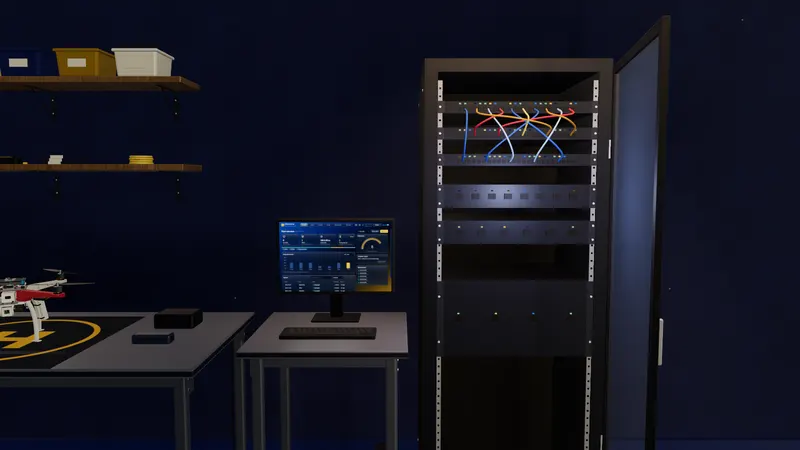
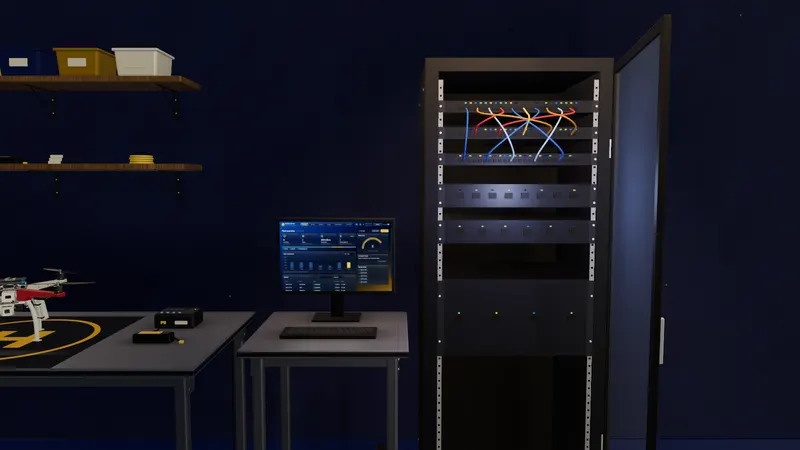
Studio: the desk mouse on the desk, left of the keyboard (it hung 6 cm past the desk's right edge); the bin's paper and shadow raised onto the rug with it; the read-mode stills taken again

diff --git a/src/lib/studio/room.ts b/src/lib/studio/room.ts
@@ -645,12 +645,12 @@ export async function buildRoom(ctx: StageContext, content: RoomContent): Promis
 	const back = deskZ - 0.45;
 	if (detail) {
 		// A real mouse (furniture.ts), flat on the desk, its lead over the back with the others, and the dark right under it.
-		const mx = monitorX + 0.33;
+		const mx = monitorX - 0.33; // (left of the keyboard: on its right the desk ends 5 cm on, and the mouse hung over the floor)
 		const mz = deskZ + 0.14;
 		const mouse = new Batch([mx, deskTop, mz]);
 		deskMouse(mouse, mx, deskTop, mz);
 		mouse.mesh(group);
-		cable(group, [[mx, deskTop + 0.007, mz - 0.05], [mx + 0.01, deskTop + 0.003, mz - 0.1], [mx - 0.05, deskTop + 0.003, deskZ - 0.3], [monitorX + 0.14, deskTop + 0.002, back - 0.01], [monitorX + 0.14, deskTop - 0.2, back - 0.02]], rubber, 0.002);
+		cable(group, [[mx, deskTop + 0.007, mz - 0.05], [mx + 0.01, deskTop + 0.003, mz - 0.1], [mx + 0.05, deskTop + 0.003, deskZ - 0.3], [monitorX - 0.17, deskTop + 0.002, back - 0.01], [monitorX - 0.17, deskTop - 0.2, back - 0.02]], rubber, 0.002);
 		const under = contactShadow(0.062, 0.6);
 		under.scale.set(0.72, 1.12, 1);
 		under.position.set(mx + 0.003, deskTop + 0.0006, mz + 0.002);
@@ -659,7 +659,7 @@ export async function buildRoom(ctx: StageContext, content: RoomContent): Promis
 	} else {
 		const mouse = new Mesh(new SphereGeometry(0.03, 20, 12), keyPlastic);
 		mouse.scale.set(1, 0.55, 1.75);
-		mouse.position.set(monitorX + 0.33, deskTop + 0.0165, deskZ + 0.14); // (its underside on the desk)
+		mouse.position.set(monitorX - 0.33, deskTop + 0.0165, deskZ + 0.14); // (its underside on the desk)
 		group.add(mouse);
 	}
 	cable(group, [[monitorX, deskTop + 0.3, deskZ - 0.262], [monitorX + 0.03, deskTop + 0.12, deskZ - 0.3], [monitorX + 0.06, deskTop + 0.004, deskZ - 0.36], [monitorX + 0.05, deskTop + 0.002, back - 0.01], [monitorX + 0.05, deskTop - 0.2, back - 0.02]], rubber, 0.0045);

diff --git a/src/lib/studio/desk-sheets.ts b/src/lib/studio/desk-sheets.ts
@@ -516,8 +516,8 @@ export function buildDeskSheets(text: typeof DeskSheetsText, places: SheetPlace[
 		? [
 				[-7.06, deskTop + BALL, -2.78],
 				[BIN.x + 0.2, 0.006 + BALL, BIN.z + 0.13], // (on the rug)
-				[BIN.x - 0.03, BIN.h - 0.04, BIN.z + 0.02],
-				[BIN.x + 0.045, BIN.h - 0.055, BIN.z - 0.03],
+				[BIN.x - 0.03, 0.006 + BIN.h - 0.04, BIN.z + 0.02],
+				[BIN.x + 0.045, 0.006 + BIN.h - 0.055, BIN.z - 0.03],
 			]
 		: [
 				[-7.06, deskTop + BALL, -2.78],
@@ -531,10 +531,10 @@ export function buildDeskSheets(text: typeof DeskSheetsText, places: SheetPlace[
 		rim.position.set(BIN.x, 0.006 + BIN.h, BIN.z);
 		// Its floor, raised: the crumpled paper it is nearly full of.
 		const fill = new Mesh(new CylinderGeometry(0.125, 0.125, 0.01, 20), ballMat);
-		fill.position.set(BIN.x, BIN.h - 0.085, BIN.z);
+		fill.position.set(BIN.x, 0.006 + BIN.h - 0.085, BIN.z);
 		const under = new Mesh(new PlaneGeometry(0.4, 0.4), shadowMat);
 		under.rotation.x = -Math.PI / 2;
-		under.position.set(BIN.x + 0.02, 0.0125, BIN.z + 0.015);
+		under.position.set(BIN.x + 0.02, 0.0068, BIN.z + 0.015); // (just over the rug, as the balls' shadows are)
 		group.add(wall, rim, fill, under);
 	}
 	for (const [x, y, z] of balls) {
